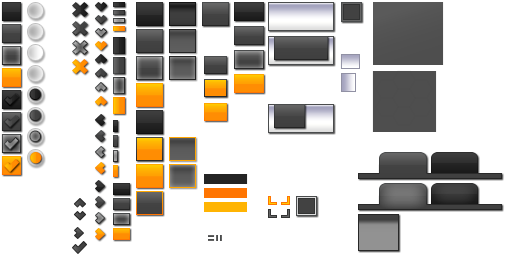
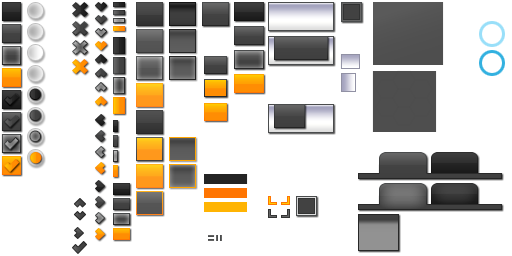
[ADD] Blue ring for nav points [ADD] White ring for current location [ADD] White circle for jump range [ADD] graphic files for red zone, orange zone and blue zone

diff --git a/src/InGameMenu.cpp b/src/InGameMenu.cpp
@@ -19,6 +19,13 @@ namespace Salvation
 		mSettingsButton->eventMouseButtonClick += MyGUI::newDelegate(playButtonClick);
 
 		setVisible(false);
+
+		/*
+		const MyGUI::IntSize size(200, 200);
+		mJumpRange = MyGUI::Gui::getInstance().createWidget<MyGUI::ImageBox>("ImageBox",MyGUI::IntCoord(0,0, size.width, size.height), MyGUI::Align::Default, "Back");
+//		mJumpRange = mMainWidget->createWidget<MyGUI::ImageBox>("ImageBox", MyGUI::IntCoord(0,0, size.width, size.height), MyGUI::Align::Default);
+		mJumpRange->setImageTexture("white-circle.png");
+		*/
 	}
 
 	InGameMenu::~InGameMenu()
@@ -120,17 +127,16 @@ namespace Salvation
 
 				float x = result.x * width;
 				float y = result.y * height;
-				float buttonSize = 50.0;
+				float buttonSize = 26.0;
 				float halfButtonSize = buttonSize * 0.5f;
 				MyGUI::IntCoord coord(x - halfButtonSize,y - halfButtonSize,buttonSize,buttonSize);
 
 				MyGUI::ButtonPtr button = mMainWidget->createWidget<MyGUI::Button>(
-					"Button", 
+					"ButtonNavSkin", 
 					coord, 
 					MyGUI::Align::Default, 
 					node->title + "Button");
 				button->setCaption(node->title);
-				button->setAlpha(0.0);
 				button->setUserData(i);
 				button->setVisible(node->visible);
 				button->eventMouseSetFocus += MyGUI::newDelegate(playButtonOver);
@@ -155,6 +161,24 @@ namespace Salvation
 	void InGameMenu::setNavButtonsVisible(bool visible)
 	{
 		for(unsigned int i = 0; i < mNavButtons.size(); i++) {
+			MyGUI::ButtonPtr btn = mNavButtons[i];
+			if(i == Game::getSingleton().mCurrentNodeIdx) {
+				/*
+				MyGUI::IntPoint center = btn->getAbsolutePosition();
+				center.left += btn->getSize().width * 0.5;
+				center.top += btn->getSize().height * 0.5;
+
+				MyGUI::IntPoint pos = center;
+				pos.left -= mJumpRange->getSize().width * 0.5;
+				pos.top -= mJumpRange->getSize().height * 0.5;
+
+				mJumpRange->setPosition(pos);
+				*/
+				btn->setStateSelected(true);
+			}
+			else {
+				btn->setStateSelected(false);
+			}
 			if(!visible) {
 				mNavButtons[i]->setVisible(false);
 			}

diff --git a/src/Game.cpp b/src/Game.cpp
@@ -93,7 +93,7 @@ void Game::createGameNodes(int numSectors, int nodesPerSector)
 
 	mGameNodesSceneNode =  mSceneManager->getRootSceneNode()->createChildSceneNode();
 
-	//srand(1);
+	srand(time(NULL));
 	
 	int numColumns = 0;
 	int sector = 0;
@@ -144,11 +144,13 @@ void Game::createGameNodes(int numSectors, int nodesPerSector)
 			}
 			n->scenenode = mGameNodesSceneNode->createChildSceneNode(Ogre::Vector3(pos.x,0,pos.y));
 
+			/*
 			Ogre::Entity *ent = mSceneManager->createEntity(n->title,
 				Ogre::SceneManager::PT_SPHERE);
 			n->scenenode->setScale(0.4f,0.4f,0.4f);
 			n->scenenode->attachObject(ent);
 			//n->scenenode->showBoundingBox(true);
+			*/
 			n->scenenode->setVisible(n->visible);
 			mGameNodes.push_back(n);
 			numNodes++;
@@ -213,6 +215,12 @@ void Game::play()
 	mPlayerShip->reset();
 
 	createGameNodes(3,4);
+
+	mPlayerShip->mRangeBillboard->setPosition(
+		mGameNodes[mCurrentNodeIdx]->scenenode->getPosition());
+	mPlayerShip->mRangeBillboardSet->setDefaultDimensions(
+		mPlayerShip->mMaxJumpRange * 2.0,
+		mPlayerShip->mMaxJumpRange * 2.0);
 
 	updateVisibleNodes();
 
@@ -304,6 +312,11 @@ bool Game::travelToNodeWithIndex(unsigned int i, bool force)
 
 	mCurrentNodeIdx = i;
 	
+	mPlayerShip->mRangeBillboard->setPosition(
+		mGameNodes[mCurrentNodeIdx]->scenenode->getPosition());
+	mPlayerShip->mRangeBillboardSet->setDefaultDimensions(
+		mPlayerShip->mMaxJumpRange * 2.0,
+		mPlayerShip->mMaxJumpRange * 2.0);
 	updateVisibleNodes();
 	
 	mInGameMenu->update();

diff --git a/src/Ship.cpp b/src/Ship.cpp
@@ -12,6 +12,16 @@
 Ship::Ship(void)
 {
 	reset();
+	mRangeBillboardSet = Game::getSingleton().mSceneManager->createBillboardSet();
+	mRangeBillboardSet->setAutoUpdate(true);
+	mRangeBillboardSet->setDefaultDimensions(mMaxJumpRange * 2.0,mMaxJumpRange * 2.0);
+
+	Ogre::MaterialPtr mat = Ogre::MaterialManager::getSingleton().getByName("RangeMaterial");
+	mRangeBillboardSet->setMaterial(mat);
+	Ogre::SceneNode *n = Game::getSingleton().mSceneManager->getRootSceneNode()->createChildSceneNode();
+	n->attachObject(mRangeBillboardSet);
+
+	mRangeBillboard = mRangeBillboardSet->createBillboard(Ogre::Vector3::ZERO);
 }
 
 

diff --git a/include/InGameMenu.h b/include/InGameMenu.h
@@ -32,12 +32,13 @@ namespace Salvation
 		void quit(MyGUI::WidgetPtr _sender);
 		void navButtonPressed(MyGUI::WidgetPtr _sender);
 	private:
-		std::vector<MyGUI::WidgetPtr> mNavButtons;
+		std::vector<MyGUI::ButtonPtr> mNavButtons;
 
 		bool getScreenspaceCoords(Ogre::SceneNode* node, Ogre::Camera* camera, Ogre::Vector2& result);
 		void createNavButtons();
 		void setNavButtonsVisible(bool visible);
 
+		MyGUI::ImageBox *mJumpRange;
 
 	//%LE Widget_Declaration list start
 		ATTRIBUTE_FIELD_WIDGET_NAME(InGameMenu, mDialogWindowWindow, "DialogWindow");

diff --git a/include/Ship.h b/include/Ship.h
@@ -34,6 +34,9 @@ public:
 
 	int mWeaponsLevel; // weapons level (strength & recharge)
 	float mWeaponsDamage; // damage to weapons system
+
+	Ogre::BillboardSet *mRangeBillboardSet;
+	Ogre::Billboard *mRangeBillboard;
 };
 
 #endif

diff --git a/win/salvation/stdafx.h b/win/salvation/stdafx.h
@@ -22,6 +22,7 @@
 #include "windows.h"
 #endif
 #include <math.h>
+#include <time.h>
 
 #include <SFML/Audio.hpp>
 
